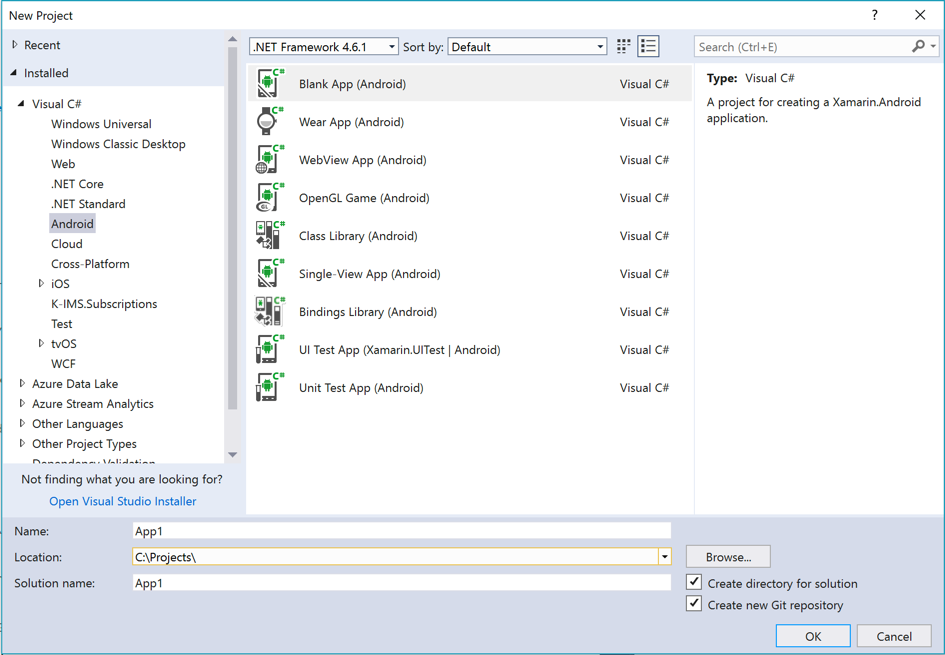
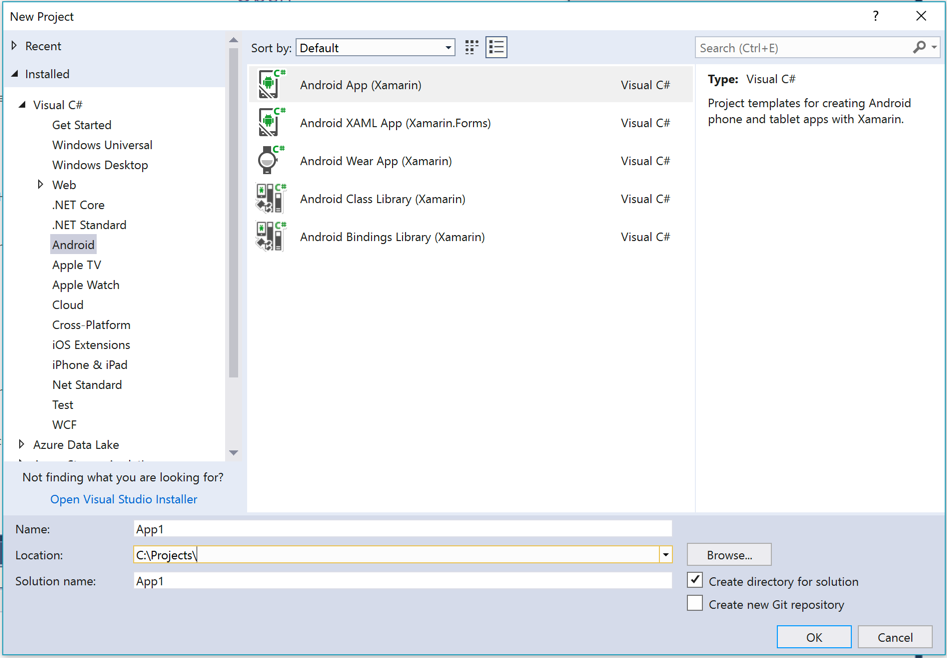
Update Lab01 for Android
Descriptions and screenshots are updated

diff --git a/Lab01/Android/readme.md b/Lab01/Android/readme.md
@@ -1,60 +1,72 @@
 # Hello Android
+
 **Prerequisites**: please make sure you have installed all necessary software. [Instructions](https://github.com/XpiritBV/xamarin-hands-on-labs/#getting-started).
 
 ## Objectives
+
 - Build your first app with Xamarin.Android
 
 ## Instructions
+
 Create a new Android project in Visual Studio 2017: `File > New Project > Android > Blank App (Android)` or in Visual Studio for Mac: `File > New Solution > Android > Blank Android App`.
 
 ![New Android project](./images/android01.png)
 
-![Default Android project](./images/android02.png)
+Choose `Single View App` and accept the default target platform version.
+
+![Single View App](./images/android02.png)
+
+![Default Android Project](./images/android03.png)
 
 The default Android project template already contains a working app. Examine its contents.
+
 ### MainActivity.cs
+
 This is the root activity of the application, which starts up when the application launches.
 
 ```csharp
-[Activity(Label = "App1", MainLauncher = true)]
-public class MainActivity : Activity
+[Activity(Label = "@string/app_name", Theme = "@style/AppTheme", MainLauncher = true)]
+public class MainActivity : AppCompatActivity
 {
     protected override void OnCreate(Bundle savedInstanceState)
     {
         base.OnCreate(savedInstanceState);
-
         // Set our view from the "main" layout resource
-        SetContentView(Resource.Layout.Main);
+        SetContentView(Resource.Layout.activity_main);
     }
 }
 ```
 
 This **MainActivity** is marked with an attribute, indicating that it is the main launcher of the application.
 
-Note that the Activity calls **SetContentView** to associate a layout. This layout named **“Main”** can be found in the _Resources\layout_ project folder as an .axml file.
+Note that the Activity calls **SetContentView** to associate a layout. This layout named **“activity_main”** can be found in the _Resources\layout_ project folder as an `.axml` file.
 
-### Resources\layout\Main.axml
+### Resources\layout\activity_main.axml
+
 Double-click the file. The Android designer will show up.
 
-![Android designer](./images/android03.png)
+![Android designer](./images/android04.png)
 
-Clicking on the Source tab in the lower left corner will reveal the XML source.
+It shows the preview and the XML source side-by-side.
 
 ```xml
 <?xml version="1.0" encoding="utf-8"?>
-<LinearLayout xmlns:android="http://schemas.android.com/apk/res/android"
-    android:orientation="vertical"
+<RelativeLayout xmlns:android="http://schemas.android.com/apk/res/android"
+    xmlns:app="http://schemas.android.com/apk/res-auto"
+    xmlns:tools="http://schemas.android.com/tools"
     android:layout_width="match_parent"
-    android:layout_height="match_parent" />
+    android:layout_height="match_parent">
+</RelativeLayout>
 ```
 
-This main screen has a linear layout and contains no controls. In the **Designer** view, drag a button onto the surface from the **Toolbox**.
+This main screen has a relative layout and contains no controls. In the **Designer** view, drag a button onto the surface from the **Toolbox**.
 
-![Add button](./images/android04.png)
+![Add button](./images/android05.png)
 
 Notice in the properties pane that its **id** is `@+id/button1`. You can change this if you want, or just leave this as is.
 
 ### Interacting with controls
+
 Return to the `MainActivity.cs` source file. After the call to `SetContentView(...)`, in the `OnCreate` method, add:
 
 ```csharp
@@ -78,7 +90,8 @@ Run the app and click on the button to see how it works.
 ![Screenshot 1](./images/android05.png)
 
 ### Adding a list
-We are going to add a list to this application. Open the `Main.axml` layout and drag a `ListView` from the **Toolbox** to the surface just below the button.
+
+We are going to add a list to this application. Open the `activity_main.axml` layout. Remove the button and drag a `ListView` from the **Toolbox** to the surface just below the button.
 
 ![Add ListView](./images/android07.png)
 
@@ -102,7 +115,7 @@ A `ListView` gets its data from an `Adapter`. For more advanced scenario’s, yo
 In `MainActivity.cs`, replace the implementation of the `OnCreate` method with this:
 
 ```csharp
-private Data _data = new Data();
+private Data data = new Data();
 
 protected override void OnCreate(Bundle bundle)
 {
@@ -111,31 +124,24 @@ protected override void OnCreate(Bundle bundle)
     // Set our view from the "main" layout resource
     SetContentView(Resource.Layout.Main);
 
-    // Get our button from the layout resource,
-    // and attach an event to it
-    Button button = FindViewById<Button>(Resource.Id.button1);
+    var adapter = new ArrayAdapter(this, Android.Resource.Layout.SimpleListItem1);
 
     var listView = FindViewById<ListView>(Resource.Id.listView1);
-
-    button.Click += delegate
-    {
-        var adapter = new ArrayAdapter(this, Android.Resource.Layout.SimpleListItem1);
-
-        adapter.AddAll(_data.Cities);
-        listView.Adapter = adapter;
-    };
+    adapter.AddAll(data.Cities);
+    listView.Adapter = adapter;
 }
 ```
 
-This code obtains a reference to the newly added `ListView`. In the `Click` handler for the button, an `ArrayAdapter` is created and bound to the `ListView`. Since this is a simple list containing only strings, the array is bound to the reserved `Android.Resource.Layout.SimpleListItem1` layout. This is a default item type in a ListView.
+This code obtains a reference to the newly added `ListView`. An `ArrayAdapter` is created and bound to the `ListView`. Since this is a simple list containing only strings, the array is bound to the reserved `Android.Resource.Layout.SimpleListItem1` layout. This is a default item type in a ListView.
 
 Note that the list of cities is copied into the adapter, and that the adapter is then bound to the `ListView` by setting its `Adapter` property.
 
-Now if we run the app, the list will be populated when the button is clicked.
+Now if we run the app, the list will be populated when it launches.
 
 ![List of cities](./images/android08.png)
 
 ### Adding navigation
+
 As a final step, we’re going to add navigation to the app. When we click on an item in the list, we will navigate to a new screen.
 
 To add a new screen, we need a new activity and a new layout. First, create the new layout. Add a new item to the project in the `Resources\layout` folder, of type `Android Layout`. Name it `CityView.axml`.
@@ -159,7 +165,7 @@ Add a **“Text (Large)”** view from the Toolbox to the layout, or copy the XM
 </LinearLayout>
 ```
 
-Add a new item to the project, of type `Android Activity`. Give it the name `CityActivity` and implement the `OnCreate` method like this:
+Add a new item to the project, of type `Activity`. Give it the name `CityActivity` and implement the `OnCreate` method like this:
 
 ```csharp
 [Activity(Label = "CityActivity")]
@@ -186,7 +192,7 @@ Note that it uses the newly created layout as its content view.
 
 Also note that it uses the `Intent.Extras` collection to obtain the name of the city that the user selected in the list and sets it to the `Text` property of the `TextView`.
 
-In this last part, we’re going to launch the new activity and pass the city name. On Android, starting a new activity is always done through an `Intent`. 
+In this last part, we’re going to launch the new activity and pass the city name. On Android, starting a new activity is always done through an `Intent`.
 
 The concept is that the user has an intent to perform a certain action. E.g.: send an email, show a map. Android could automatically select an activity that matches the intent, based on the user’s preferences, such as the default email app. In this way, the intent is decoupled from the actual activity that handles the intent.
 
@@ -214,7 +220,8 @@ This method creates a new `Intent`, specifying the type of the newly added `City
 
 `StartActivity` launches the activity, using the intent we just created. Run the app to see it work:
 
-![Detail View](./images/android09.png)
+![Detail View](./images/android09.gif)
 
-# Congratulations!
+## Congratulations!
+
 You've built your first Xamarin.Android app.
